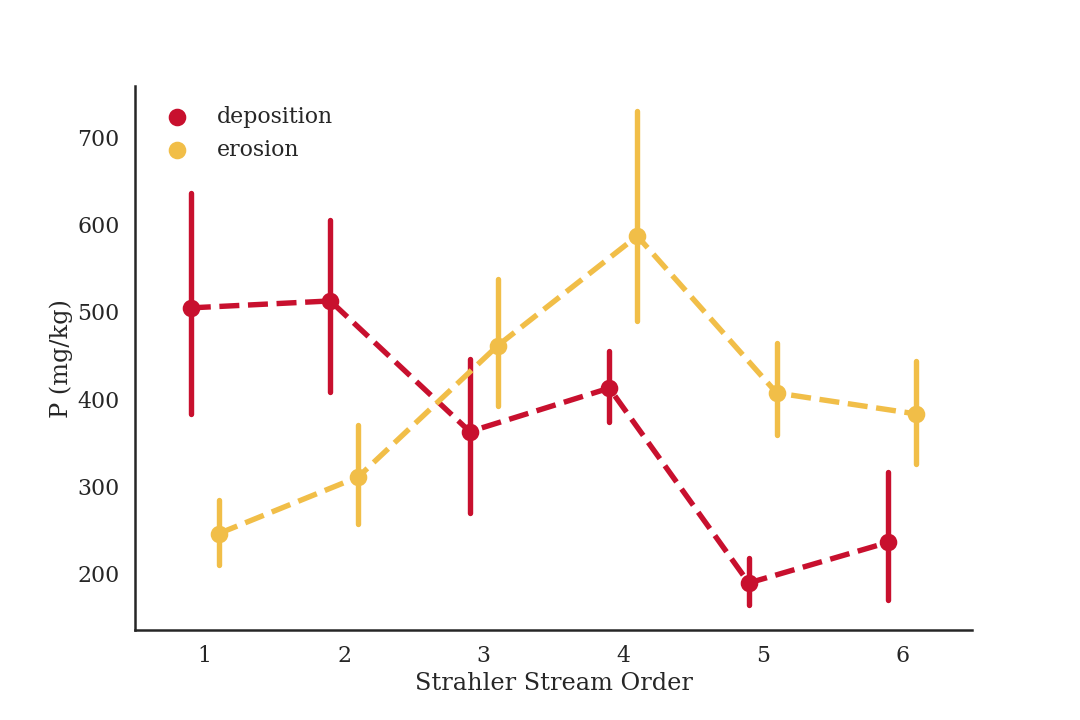
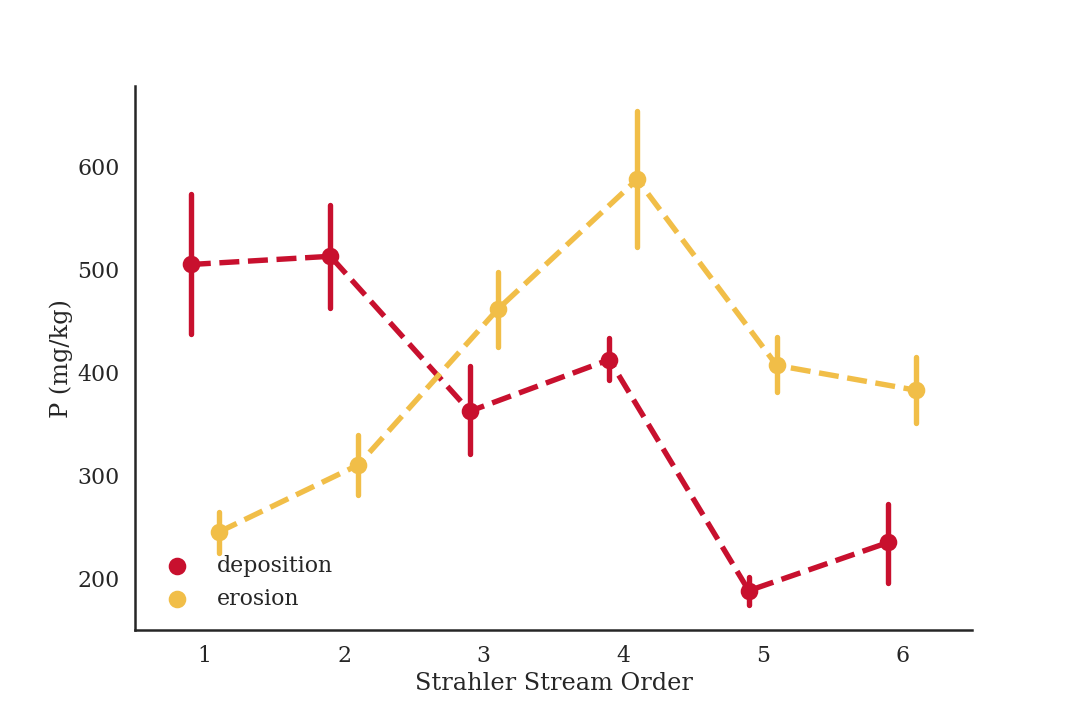
general

diff --git a/graphs.py b/graphs.py
@@ -21,6 +21,8 @@ def anova(row, col, data):
     print(result[1])
 
 data = pd.read_csv('p_grouped.csv')
+aimm = pd.read_csv('typeOrder.csv')
+aimm['vol'] = aimm['Volume (m3)'].abs()
 
 # anova('unit', 'P (mg/kg)', data) #No Difference
 # anova('unit', 'Density (g/cm3)', data) #Difference
@@ -38,26 +40,33 @@ data = pd.read_csv('p_grouped.csv')
 # anova('order', 'P Density (kg/m3)', data[data['type'] == 'deposition']) # Difference
 
 
-ppArgs = {'hue':'type', 'dodge':0.2, 'palette':['#C8102E', '#F1BE48'], 'linestyles':'--',}
+ppArgs = {'hue':'type', 'dodge':0.2, 'palette':['#C8102E', '#F1BE48']}
 sns.set('poster', font='serif', style='white')
 
 f, (ax1) = plt.subplots(1, 1, figsize=(15, 10))
-sns.pointplot('order','P (mg/kg)', ax=ax1 , data = data, **ppArgs)
+sns.pointplot('order','P (mg/kg)', ax=ax1 , data = data, ci=68, linestyles='--', **ppArgs)
 ax1.set(xlabel='Strahler Stream Order', ylabel='P (mg/kg)')
-ax1.legend(loc='upper left', frameon=False)
+ax1.legend(loc='lower left', frameon=False)
 sns.despine()
 plt.savefig('P.png')
 
 f, (ax1) = plt.subplots(1, 1, figsize=(15, 10))
-sns.pointplot('order','Density (g/cm3)', data = data, ax=ax1, **ppArgs)
+sns.pointplot('order','Density (g/cm3)', data = data, ax=ax1, ci=68, linestyles='--',  **ppArgs)
 ax1.set(xlabel='Strahler Stream Order', ylabel='P (g/cm3)')
-ax1.legend(loc='best', frameon=False)
+ax1.legend(loc='center left', frameon=False)
 sns.despine()
 plt.savefig('Density.png')
 
 f, (ax1) = plt.subplots(1, 1, figsize=(15, 10))
-sns.pointplot('order','P Density (kg/m3)', data = data, ax=ax1, **ppArgs)
-ax1.set(xlabel='Strahler Stream Order', ylabel=r'P Density (kg/m^3)')
-ax1.legend(loc='upper left', frameon=False)
+sns.barplot('order','Sed export (Mg)', data = aimm, ax=ax1, ci=None, **ppArgs)
+ax1.set(xlabel='Strahler Stream Order', ylabel='Sediment Exported (Mg)')
+ax1.legend(loc='best', frameon=False)
 sns.despine()
-plt.savefig('P Density.png')
+plt.savefig('SedExport.png')
+
+f, (ax1) = plt.subplots(1, 1, figsize=(15, 10))
+sns.barplot('order','P export (Mg)', data = aimm, ax=ax1, ci=None, **ppArgs)
+ax1.set(xlabel='Strahler Stream Order', ylabel='TP Exported (Mg)')
+ax1.legend(loc='best', frameon=False)
+sns.despine()
+plt.savefig('PExport.png')

diff --git a/errorBars.py b/errorBars.py
@@ -1,0 +1,32 @@
+# -*- coding: utf-8 -*-
+"""
+Created on Wed Feb 12 20:43:52 2020
+
+@author: 4rest
+"""
+import numpy as np
+import pandas as pd
+import seaborn as sns
+import matplotlib.pyplot as plt
+
+df = pd.read_csv('typeOrder.csv')
+df["lb"] = df["m"]-df["lb"]
+df["ub"] = df["ub"]-df["m"]
+
+def func(x,y,h,lb,ub, **kwargs):
+    data = kwargs.pop("data")
+    # from https://stackoverflow.com/a/37139647/4124317
+    errLo = data.pivot(index=x, columns=h, values=lb)
+    errHi = data.pivot(index=x, columns=h, values=ub)
+    err = []
+    for col in errLo:
+        err.append([errLo[col].values, errHi[col].values])
+    err = np.abs(err)
+    p = data.pivot(index=x, columns=h, values=y)
+    p.plot(kind='bar',yerr=err,ax=plt.gca(), **kwargs)
+
+g = sns.FacetGrid(df, col="variables", size=4, aspect=.7,  ) 
+g.map_dataframe(func, "grp2", "m", "grp1", "lb", "ub" , color=["limegreen", "indigo"]) 
+g.add_legend()
+
+plt.show()
